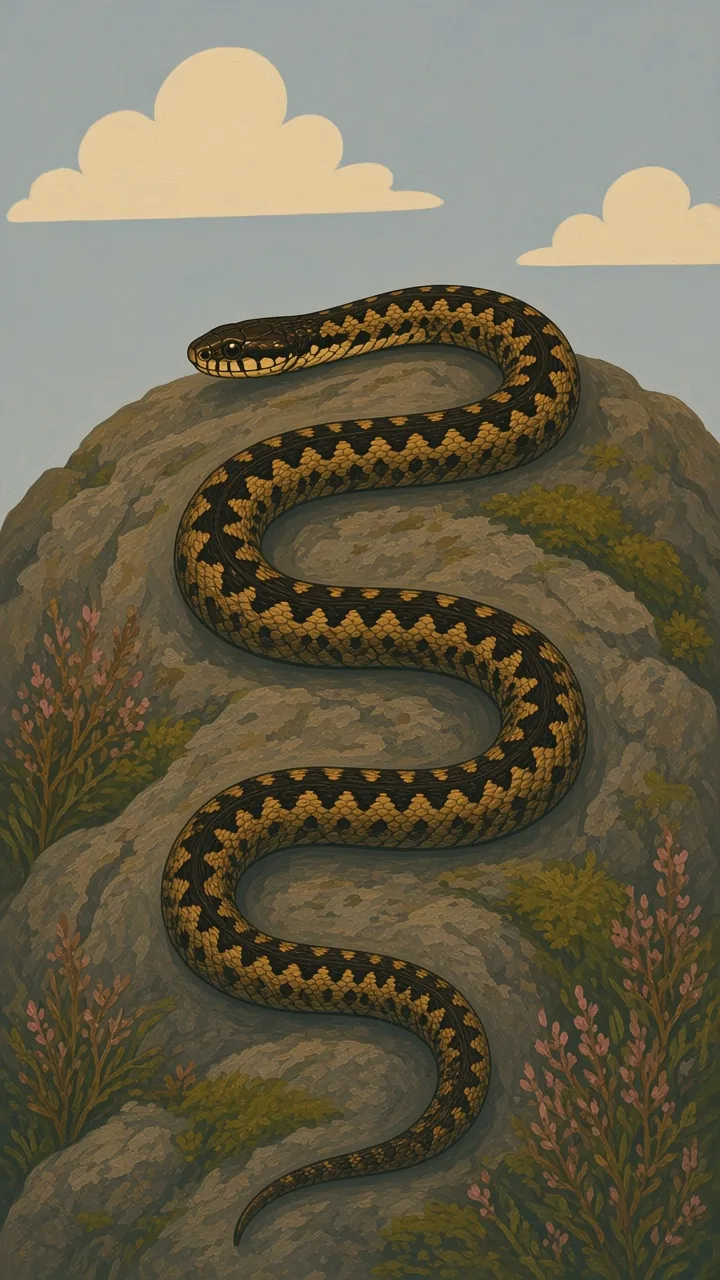
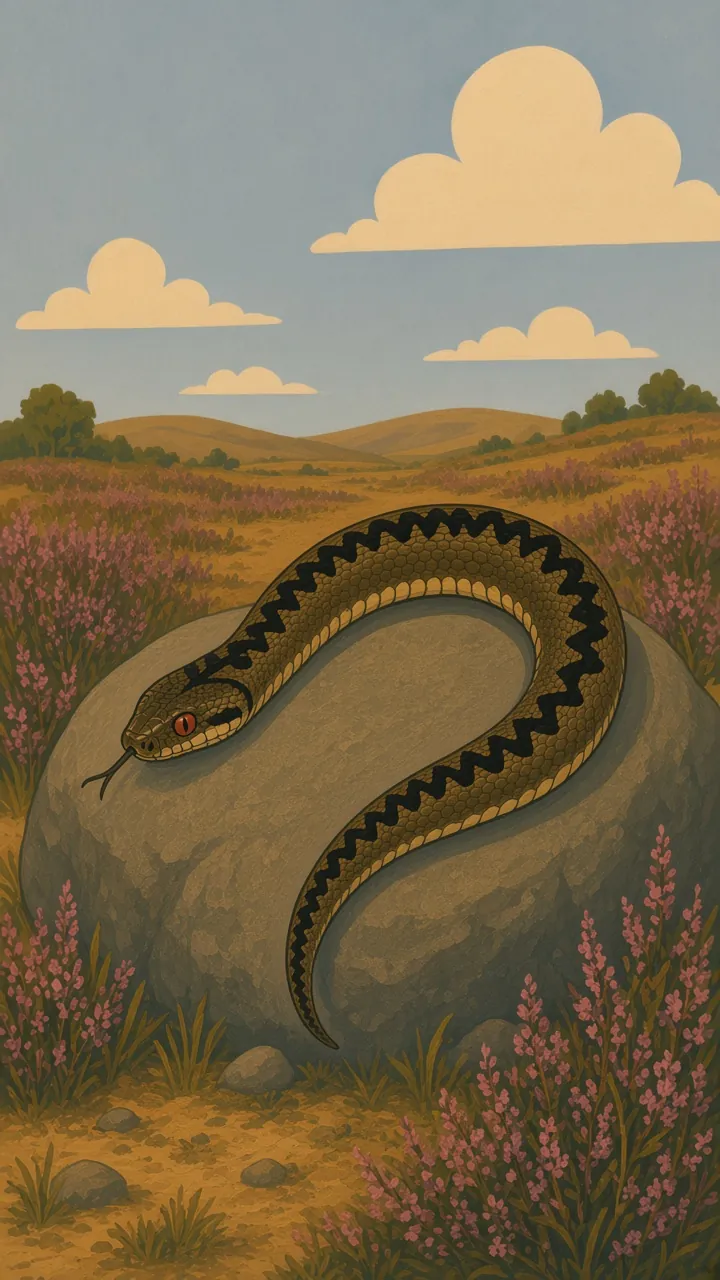
Paint Adder as one J-curve snake on a rock.
The open S mixed a side-on head with a top-down body, so the tube still did not read as one animal. This pose is a single arch from head to tail, same viewpoint as the newt cards.

diff --git a/service-worker.js b/service-worker.js
@@ -1,4 +1,4 @@
-const CACHE_NAME = 'card-road-pwa-v110-adder';
+const CACHE_NAME = 'card-road-pwa-v111-adder';
 const CORE_ASSETS = [
   './index.html',
   './manifest.webmanifest',
